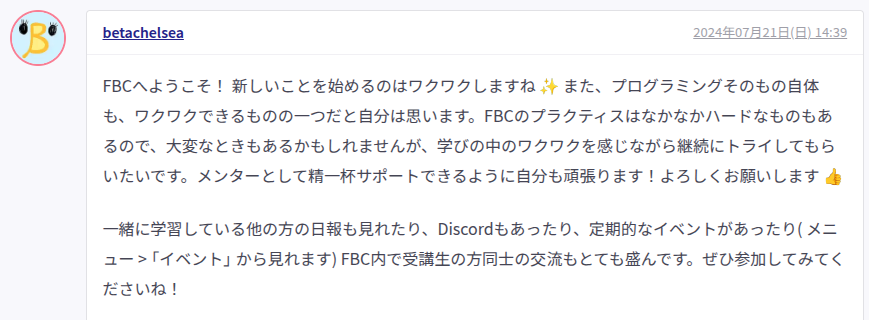
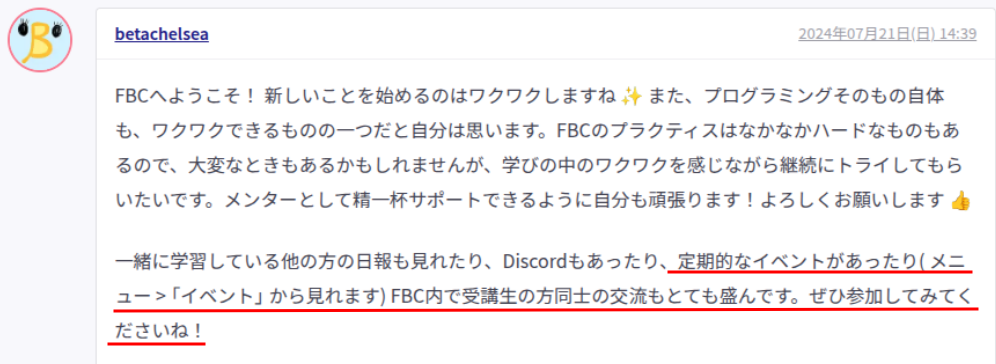
update first_time_lt_meeting_16 with organized images

diff --git a/fbc/first_time_lt_meeting_16/first_time_lt_meeting_16.md b/fbc/first_time_lt_meeting_16/first_time_lt_meeting_16.md
@@ -78,7 +78,7 @@ style: |
 
 ---
 
-## 日報・分報あるある
+## 日報あるある
 
 ---
 
@@ -161,16 +161,13 @@ style: |
 
 <img src="./images/comment_from_betasan.png" alt="avatar" width="1100" />
 
-メモ: 定期的なイベント以下に赤下線追加
-輪読会
-
 ---
 
 ## 定期的なイベント...?🤔
 
 ---
 
-<img src="./images/Screenshot from 2025-06-13 22-53-13.png" alt="avatar" width="1000" />
+<img src="./images/fbc_study_groups.png" alt="avatar" width="1000" />
 
 ---
 
@@ -246,7 +243,7 @@ style: |
 
 ---
 
-## 大阪Ruby会議04
+<img src="./images/osrk_04.png" alt="avatar" width="1000" />
 
 ---
 
@@ -254,7 +251,7 @@ style: |
 
 ---
 
-<img src="./images/image.png" alt="avatar" width="1000" />
+<img src="./images/osrk_04_speakers.png" alt="avatar" width="1000" />
 
 ---
 
@@ -278,117 +275,101 @@ style: |
 
 ---
 
-## 初めて他のFBC生と会う機会
+## イベントに参加する内に
+
+## 顔を覚えてもらって
 
 ---
 
-<img src="./images/group_photo_location_in_osrk04.png" alt="avatar" width="800" />
+## そこから徐々に
+
+## つながりが広がった
 
 ---
 
-## 集合場所に行くと...
+## RubyKaigi2025事前勉強会
 
 ---
 
-## いない...???
+<img src="./images/rubykaigi_2025_prestudy_session.png" alt="avatar" width="1000" />
 
 ---
 
-<img src="./images/no_people_at_group_photo_location.png" alt="avatar" width="1000" />
+## 言語処理、面白そう！
 
 ---
 
-## 結局最後まで会えず😭
+## RubyKaigi Day1
 
 ---
 
-## カンファレンス自体はすごく楽しかった😃
+## フィヨブーハウスで
+
+## 言語処理の勉強
 
 ---
 
-## FBCミートアップにて
+## RubyKaigi Day2
 
-## 気づいてもらう方法を
-
-## 教えてもらった
+## しんめ.rbランチ会
 
 ---
 
-## 名札にシールを貼る
+<img src="./images/rubykaigi_2025_shinmerb_lunch_meetup.png" alt="avatar" width="1000" />
 
 ---
 
-名札にシール貼った写真
+## フィヨブーハウスでの
+
+## 言語処理の勉強について
+
+## 熱弁していると
 
 ---
 
-## NFCタグを作る
+## 言語処理に興味を持つ
+
+## 仲間ができた🥳
 
 ---
 
-NFCタグ写真
+## RubyKaigi終了後
 
 ---
 
-## 次こそは...🔥🔥
+## Shikumi.rb立ち上げ🎉
 
 ---
 
-## フィヨブーフェス
+<img src="./images/shikumirb_launch.png" alt="avatar" width="1000" />
 
 ---
 
-## Kaigi on Rails参加
+## 立ち上げの際にも
+
+## 皆さんに助けていただいた
 
 ---
 
-## 輪読会共同主催のお誘い
+## 自分から話しかけることは
+
+## 苦手だけど
 
 ---
 
-## ビブリオバトルに登壇
+## ワクワク駆動で
+
+## 行動していたら
 
 ---
 
-## 仲間が増える
+## つながりがいつの間にか
+
+## 大きくなっていた
 
 ---
 
-## RubyKaigi参加
-
----
-
-## 同じ技術好きの仲間ができる
-
----
-
-## 人見知りは克服できず
-
----
-
-## ただ、仲間はできた
-
----
-
-## 出来ないことより
-
-## 出来ることをやってみた
-
----
-
-## 出来ること
-
----
-
-## 興味があるイベントに参加
-
----
-
-## 技術イベント
-
----
-
-## キーボード仲間
+## 皆さんに本当に感謝🙏
 
 ---
 
